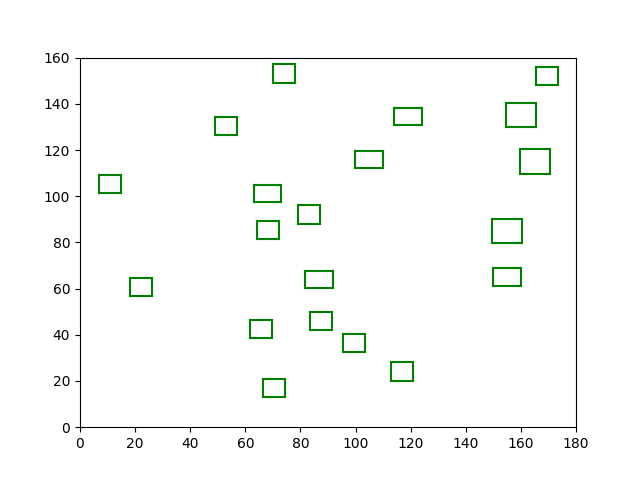
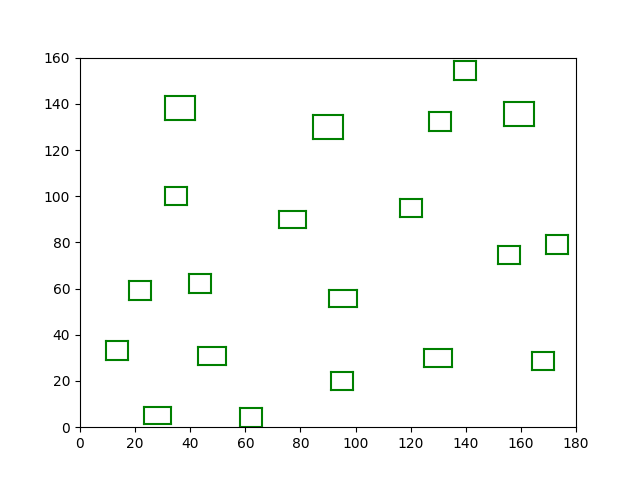
TACTICAL IN YO FACE

diff --git a/Classes/map.py b/Classes/map.py
@@ -185,44 +185,60 @@ class Map(object):
 			# iterate over map height
 			for j in range(5, self.height, 5):
 
-				new_house.location['x'] = i
-				# print("XLOC", new_house.location['x'])
-				new_house.location['y'] = j
+				# new_house.location['x'] = i
+				# # print("XLOC", new_house.location['x'])
+				# new_house.location['y'] = j
 				# print("YLOC", new_house.location['y'])
-				self.place_house({'x' : i, 'y' : j}, new_house.self_id, self.types[new_house.index_nr])
-				
-				self.houses[len(self.houses) - 1].location['x'] = i
-				self.houses[len(self.houses) - 1].location['y'] = j
+
+
+				# print("nr 3", len(self.houses))
+				# self.houses[len(self.houses) - 1].location['x'] = i
+				# self.houses[len(self.houses) - 1].location['y'] = j
 				# print("corners before:", self.houses[len(self.houses) - 1].corners)
 				# print("location:", self.houses[len(self.houses) - 1].location)
 				# print("i: ", i)
 				# print("j: ", j)
-				self.houses[len(self.houses) - 1].find_corners()
+				# self.houses[len(self.houses) - 1].find_corners()
 				# print("corners after:", self.houses[len(self.houses) - 1].corners)
-				empty = self.houses[len(self.houses) - 1].find_corners()
+				# empty = self.houses[len(self.houses) - 1].find_corners()
+				
+				# print("i: ",i)
+				# print("j: ",j)
 
-				# print(empty)
+				allowed = self.place_house(0, {'x' : i, 'y' : j})
+				# print(allowed)
 
-				self.houses[len(self.houses) - 1].calc_freespace(self)
+				if allowed == True:
+					# self.houses[len(self.houses) - 1].find_corners()
 
-				# store the possible freespace of new location
-				if (self.houses[len(self.houses) - 1].calc_freespace(self) != False):
+					# if (allowed == True):
+						# print(empty)
+
+					self.houses[len(self.houses) - 1].calc_freespace(self)
+
+					# store the possible freespace of new location
+					if (self.houses[len(self.houses) - 1].calc_freespace(self) != False):
 
 
-					tmp = self.houses[len(self.houses) - 1].freespace
+						tmp = self.houses[len(self.houses) - 1].freespace
 
-					# print(tmp)
-					# print("x", i)
-					# print("y", j)
+						# print(tmp)
+						# print("x", i)
+						# print("y", j)
 
-					# if new freespace is greater then update
-					if (tmp >= poss_freespace):
+						# if new freespace is greater then update
+						if (tmp >= poss_freespace):
 
-						# update new poss freespace
-						poss_freespace = tmp
+							# update new poss freespace
+							poss_freespace = tmp
 
-						# update location of poss freespace
-						coordinates.append({'x' : i, 'y' : j})
+							# update location of poss freespace
+							coordinates.append({'x' : i, 'y' : j})
+
+					# print(self.houses)
+					# print("nr 4", len(self.houses))
+					self.remove_house(len(self.houses) - 1)
+					
 
 		return coordinates
 
@@ -264,21 +280,21 @@ class Map(object):
 
 		for i in range(nr_houses):
 
-			tmp_house = self.houses[i]
-			del self.houses[i]
-
+			# print("nr 1", len(self.houses))
+			self.remove_house(0)
+			# print("nr 2", len(self.houses))
 			allowed = False
 
-			coordinates = self.calc_freespace_on_map(tmp_house)
+			coordinates = self.calc_freespace_on_map(self.construction[0])
 
 			j = len(coordinates) - 1
 
-			print("INDEX NUMBER:", tmp_house.index_nr)
-			print("types: ", self.types[tmp_house.index_nr])
+			# print("INDEX NUMBER:", tmp_house.index_nr)
+			# print("types: ", self.types[tmp_house.index_nr])
 
 			while (allowed == False):
 
-				allowed = self.place_house(coordinates[j], tmp_house.self_id, self.types[tmp_house.index_nr])
+				allowed = self.place_house(0, coordinates[j])
 
 				j += -1
 

diff --git a/Algorithms/hillclimber.py b/Algorithms/hillclimber.py
@@ -100,6 +100,8 @@ def hillclimber(map_charac, tries_random, tries_hill, nr_houses, hill_type):
 
 	data = [maximum]
 
+	legelist = []
+
 	for i in range(tries_hill):
 		try_map = copy.copy(best_map)
 
@@ -109,6 +111,7 @@ def hillclimber(map_charac, tries_random, tries_hill, nr_houses, hill_type):
 		elif (hill_type == 1):
 
 			try_map.tactical_swap_houses(nr_houses)
+			print("iteration", i)
 		else:
 			print("type of hillclimber not specified/recognised.")
 
@@ -116,6 +119,7 @@ def hillclimber(map_charac, tries_random, tries_hill, nr_houses, hill_type):
 
 		print("score: ", score)
 
+		legelist.append(score)
 		scatterplot(try_map, "tacticaltestplot" + str(i))
 
 		if score > maximum:
@@ -124,4 +128,5 @@ def hillclimber(map_charac, tries_random, tries_hill, nr_houses, hill_type):
 
 			data.append(maximum)
 
-	return {'map' : best_map, 'data' : data}
+
+	return {'map' : best_map, 'data' : legelist}

diff --git a/Running_Scripts/tactical_hillclimber_run.py b/Running_Scripts/tactical_hillclimber_run.py
@@ -3,3 +3,4 @@ from __import__ import *
 
 best_hill = hillclimber(MAP_20, 5, 5, 1, 1)
 print('tactical:', best_hill.score)
+save_results(best_hill['data'], "tactical")
